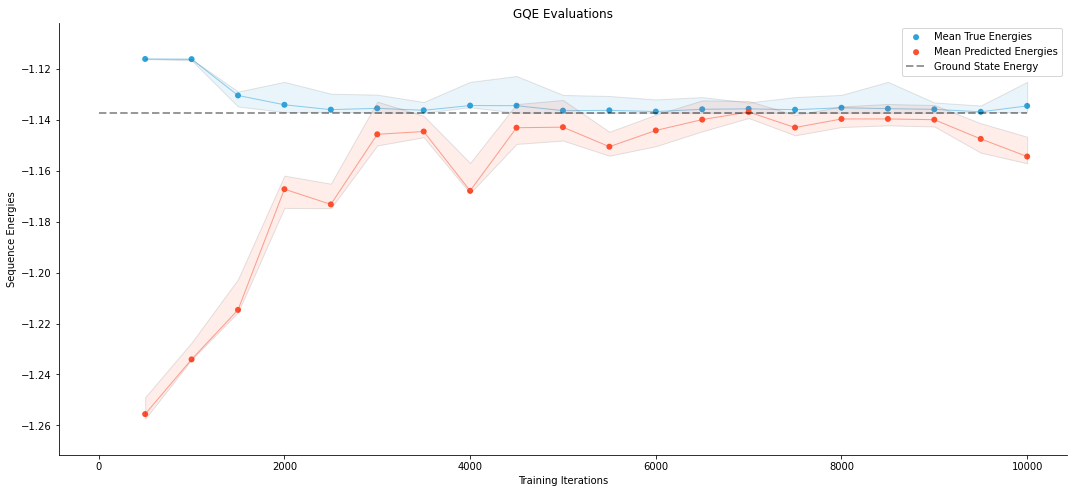
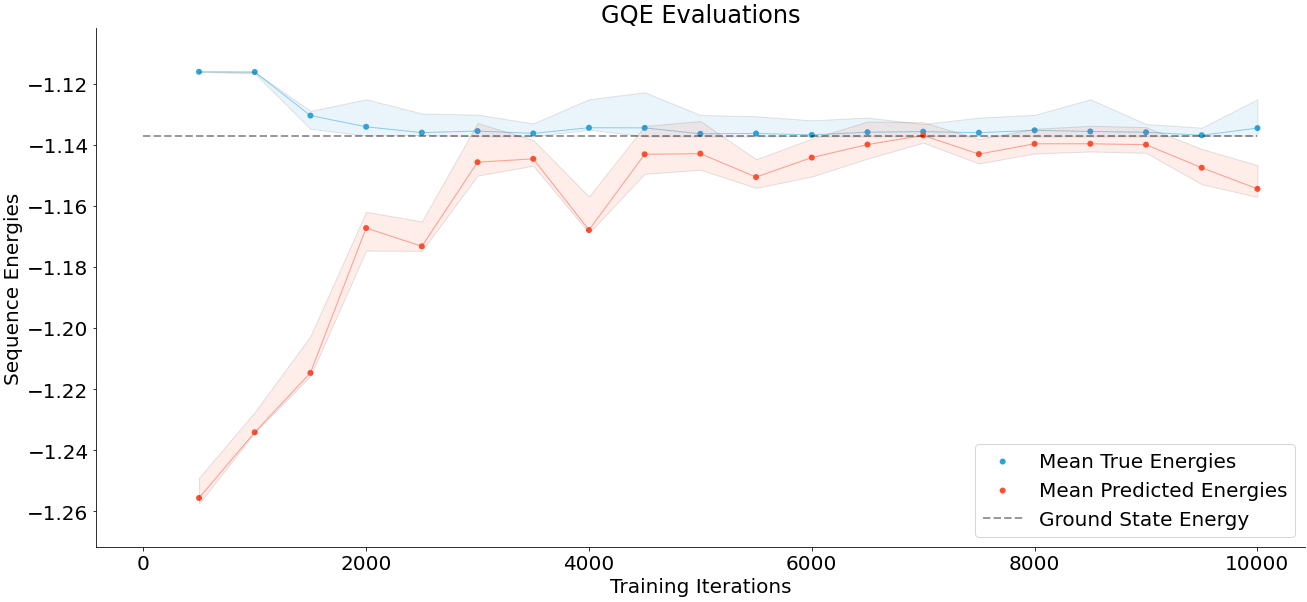
metadata + plot text resize

diff --git a/demonstrations/gqe_training.py b/demonstrations/gqe_training.py
@@ -506,33 +506,36 @@ true_Es_t = np.concatenate(true_Es_t, axis=1)
 # Having finished the offline training, let's take a look at some of our results.
 
 ######################################################################
-# Loss curve
+# Training loss curve
 # ~~~~~~~~~~~~~~
 # One of the first things we can look at is the training loss curve. Recall that for our case, the 
 # loss is the mean squared error between the cumulative sum of logits (predicted subsequence energies) and their
 # corresponding true subsequence energies. So reducing this quantity allows the model to be better at giving 
-# correct energies and in turn, correctly sample sequences with lower energies.
+# correct energies and in turn, correctly sample sequences with lower energies. Since the raw loss values 
+# become very small, we instead plot the loss in log-scale below to magnify the loss trend.  
 # 
 
 import holoviews as hv
 import hvplot.pandas
 import pandas as pd
-import numpy as np
 
 hvplot.extension('matplotlib')
 
 losses = pd.read_csv("./seq_len=4/trial7/losses.csv")["0"]
-np.log(losses).hvplot(title="Training loss progress", ylabel="log(loss)", xlabel="Training epochs").opts(fig_size=500)
+loss_fig = losses.hvplot(
+    title="Training loss progress", ylabel="loss", xlabel="Training epochs", logy=True
+).opts(fig_size=600, fontscale=1.8, aspect=1.2)
+loss_fig
 
 ##############################################################################
 #.. figure:: ../_static/demonstration_assets/gqe_training/gqe_training_loss.png
 #    :align: center
-#    :width: 90%
+#    :width: 100%
 # 
-#    Figure 4: The average subsequence loss for each training iteration
+#    Figure 4: The subsequence loss for each training iteration
 
 ##############################################################################
-# We see in Figure 4 that the average loss
+# We see in Figure 4 that the log loss
 # continues to decrease until around the 4000th iteration. There, the model was erroraneous but is quick
 # to recover as training continues. This may signal that the GPT model started focusing on learning something
 # erroraneous too quickly. So, more regularization noise (like ``dropout``) may be needed to help avoid this. 
@@ -556,29 +559,29 @@ df_pred = pd.read_csv("./seq_len=4/trial7/pred_Es_t.csv").iloc[:, 1:]
 df_true.columns = df_true.columns.astype(int)
 df_pred.columns = df_pred.columns.astype(int)
 
-df_trues_stats = pd.concat([df_true.mean(axis=0), df_true.min(axis=0), df_true.max(axis=0)], axis=1)
-df_trues_stats.columns = ["Ave True E", "Min True E", "Max True E"]
+df_trues_stats = pd.concat([df_true.mean(axis=0), df_true.min(axis=0), df_true.max(axis=0)], axis=1).reset_index()
+df_trues_stats.columns = ["Training Iterations", "Ave True E", "Min True E", "Max True E"]
 
-df_preds_stats = pd.concat([df_pred.mean(axis=0), df_pred.min(axis=0), df_pred.max(axis=0)], axis=1)
-df_preds_stats.columns = ["Ave Pred E", "Min Pred E", "Max Pred E"]
+df_preds_stats = pd.concat([df_pred.mean(axis=0), df_pred.min(axis=0), df_pred.max(axis=0)], axis=1).reset_index()
+df_preds_stats.columns = ["Training Iterations", "Ave Pred E", "Min Pred E", "Max Pred E"]
 
 fig = (
-    df_trues_stats.hvplot.scatter(y="Ave True E", label="Mean True Energies") * 
-    df_trues_stats.hvplot.line(y="Ave True E", alpha=0.5, linewidth=1) * 
-    df_trues_stats.hvplot.area(y="Min True E", y2="Max True E", alpha=0.1)
+    df_trues_stats.hvplot.scatter(x="Training Iterations", y="Ave True E", label="Mean True Energies") * 
+    df_trues_stats.hvplot.line(x="Training Iterations", y="Ave True E", alpha=0.5, linewidth=1) * 
+    df_trues_stats.hvplot.area(x="Training Iterations", y="Min True E", y2="Max True E", alpha=0.1)
 ) * (
-    df_preds_stats.hvplot.scatter(y="Ave Pred E", label="Mean Predicted Energies") * 
-    df_preds_stats.hvplot.line(y="Ave Pred E", alpha=0.5, linewidth=1) * 
-    df_preds_stats.hvplot.area(y="Min Pred E", y2="Max Pred E", alpha=0.1)
+    df_preds_stats.hvplot.scatter(x="Training Iterations", y="Ave Pred E", label="Mean Predicted Energies") * 
+    df_preds_stats.hvplot.line(x="Training Iterations", y="Ave Pred E", alpha=0.5, linewidth=1) * 
+    df_preds_stats.hvplot.area(x="Training Iterations", y="Min Pred E", y2="Max Pred E", alpha=0.1)
 )
 fig = fig * hv.Curve([[0, grd_E], [10000, grd_E]], label="Ground State Energy").opts(color="k", alpha=0.4, linestyle="dashed")
-fig = fig.opts(ylabel="Sequence Energies", xlabel="Training Iterations", title="GQE Evaluations", fig_size=500)
+fig = fig.opts(ylabel="Sequence Energies", title="GQE Evaluations", fig_size=600, fontscale=2)
 fig
 
 ##############################################################################
 #.. figure:: ../_static/demonstration_assets/gqe_training/gqe_performance.png
 #    :align: center
-#    :width: 90%
+#    :width: 100%
 # 
 #    Figure 5: True and predicted energies for sequences generated by the GPT model for each 500th training iteration
 
